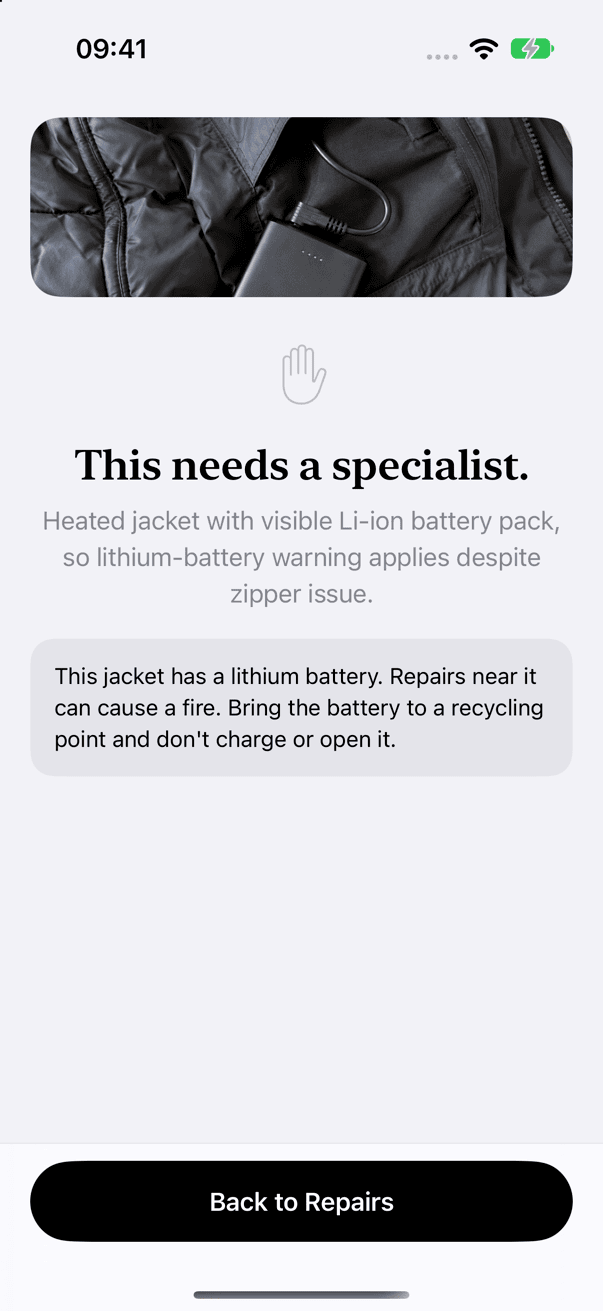
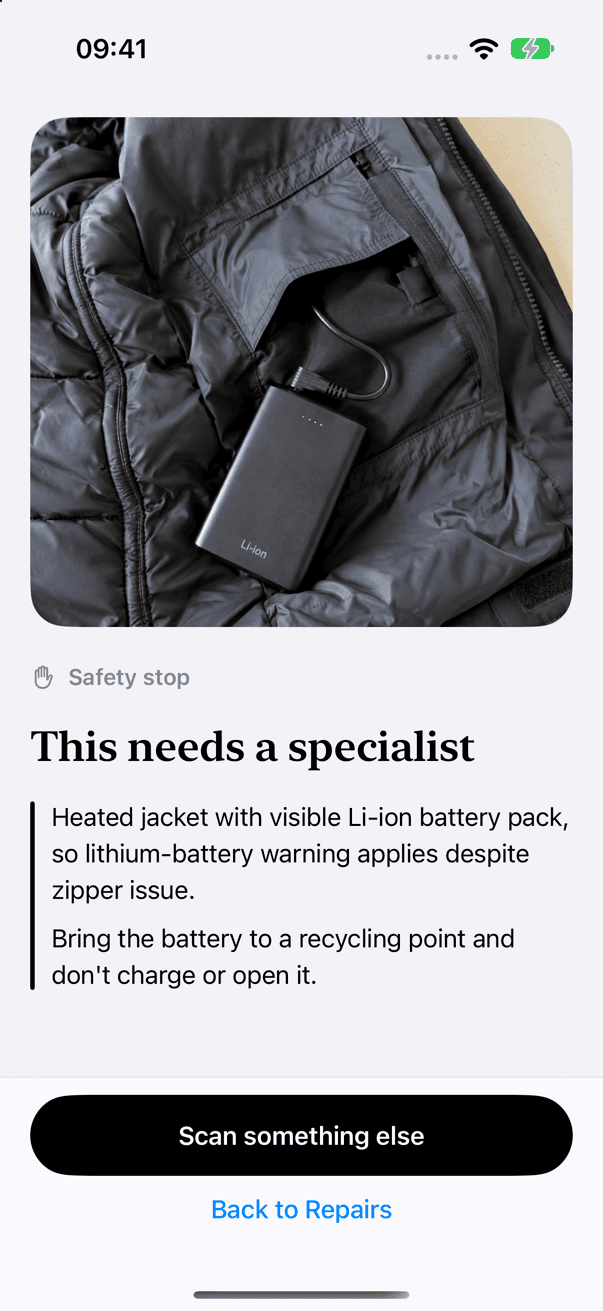
ios: Finding ohne Schlusspunkt mit integriertem Button, Block-Screen mit grossem Foto, Checkliste-Header ohne Punkt

diff --git a/ios/RepairAssistant/Views/BlockView.swift b/ios/RepairAssistant/Views/BlockView.swift
@@ -14,8 +14,8 @@ struct BlockView: View {
 
     private var title: String {
         switch variant {
-        case .battery, .professional: "This needs a specialist."
-        case .unsupported: "Not something we can mend."
+        case .battery, .professional: "This needs a specialist"
+        case .unsupported: "Not something we can mend"
         }
     }
     private var reason: String {
@@ -28,7 +28,7 @@ struct BlockView: View {
     }
     private var note: String {
         switch variant {
-        case .battery: "This \(itemNoun) has a lithium battery. Repairs near it can cause a fire. Bring the battery to a recycling point and don't charge or open it."
+        case .battery: "Bring the battery to a recycling point and don't charge or open it."
         case .professional: "Ask the maker or a specialist shop about an inspection or a replacement. Don't use it until then."
         case .unsupported: "Take a new photo of the item you want to repair, close up and in daylight."
         }
@@ -42,24 +42,35 @@ struct BlockView: View {
 
     var body: some View {
         ScrollView {
-            VStack(spacing: 20) {
+            VStack(alignment: .leading, spacing: 20) {
                 if let photo = flow.photo {
-                    Image(uiImage: photo).resizable().scaledToFill().frame(height: 120).frame(maxWidth: .infinity).clipped()
-                        .clipShape(RoundedRectangle(cornerRadius: Theme.cardRadius, style: .continuous))
-                        .accessibilityHidden(true)
+                    Group {
+                        if let r = flow.response, !r.segments.isEmpty {
+                            MarkedPhoto(image: photo, segments: r.segments, mode: .resting, showLabels: true, focus: DamageFocus.region(for: r.segments), zoomable: false)
+                        } else {
+                            Image(uiImage: photo).resizable().scaledToFill()
+                        }
+                    }
+                    .frame(height: 340).frame(maxWidth: .infinity).clipped()
+                    .clipShape(RoundedRectangle(cornerRadius: 24, style: .continuous))
+                    .accessibilityLabel(tr("Photo of your item"))
                 }
-                Image(systemName: "hand.raised").font(.system(size: 40, weight: .thin)).foregroundStyle(Theme.inkTertiary)
-                    .padding(.top, 8).accessibilityHidden(true)
-                VStack(spacing: 10) {
-                    Text(title).font(.serif(.title)).foregroundStyle(Theme.ink).multilineTextAlignment(.center)
-                        .fixedSize(horizontal: false, vertical: true)
-                    Text(reason).font(.body).foregroundStyle(Theme.inkSecondary).multilineTextAlignment(.center).lineSpacing(4)
-                        .fixedSize(horizontal: false, vertical: true)
+                HStack(spacing: 8) {
+                    Image(systemName: "hand.raised").font(.system(size: 14, weight: .semibold))
+                    Text("Safety stop").font(.subheadline.weight(.semibold))
                 }
-                Text(note).font(.subheadline).foregroundStyle(Theme.ink).lineSpacing(3)
-                    .frame(maxWidth: .infinity, alignment: .leading).padding(16)
-                    .background(Theme.fill, in: RoundedRectangle(cornerRadius: 16, style: .continuous))
+                .foregroundStyle(Theme.inkSecondary).padding(.top, 4)
+                Text(title).font(.serif(.title)).foregroundStyle(Theme.ink)
+                    .fixedSize(horizontal: false, vertical: true)
+                VStack(alignment: .leading, spacing: 12) {
+                    Text(reason).font(.body).foregroundStyle(Theme.ink).lineSpacing(4)
+                    Text(note).font(.body).foregroundStyle(Theme.ink).lineSpacing(4)
+                }
+                .fixedSize(horizontal: false, vertical: true)
+                .padding(.leading, 14)
+                .overlay(alignment: .leading) { Capsule().fill(Theme.ink).frame(width: 3) }
             }
+            .frame(maxWidth: .infinity, alignment: .leading)
             .padding(.horizontal, Theme.margin).padding(.top, 16).padding(.bottom, 24)
         }
         .scrollIndicators(.hidden)
@@ -67,8 +78,11 @@ struct BlockView: View {
         .navigationBarBackButtonHidden()
         .navigationBarHidden(true)
         .floatingBar {
-            PrimaryButton(title: "Back to Repairs") { flow.reset() }
-                .padding(.horizontal, Theme.margin).padding(.vertical, 12)
+            VStack(spacing: 0) {
+                PrimaryButton(title: "Scan something else") { flow.reset(); flow.showScan = true }
+                PrimaryButton(title: "Back to Repairs", kind: .secondary) { flow.reset() }
+            }
+            .padding(.horizontal, Theme.margin).padding(.vertical, 12)
         }
         .onAppear { Haptics.warning() }
     }

diff --git a/ios/RepairAssistant/Views/DiagnosisView.swift b/ios/RepairAssistant/Views/DiagnosisView.swift
@@ -18,14 +18,18 @@ struct DiagnosisView: View {
                 Theme.surface.ignoresSafeArea()
                 VStack(spacing: 0) {
                     hero(r, geo: geo).frame(maxHeight: .infinity)
-                    sheet(r, maxHeight: geo.size.height * 0.5)
+                    sheet(r, maxHeight: geo.size.height * 0.58)
                         .padding(.top, -Theme.heroRadius)
                         .offset(y: sheetShown ? 0 : 24).opacity(sheetShown ? 1 : 0)
                 }
             }
             .ignoresSafeArea(edges: .top)
         }
-        .floatingBar { ctaBar(r) }
+        .safeAreaInset(edge: .bottom, spacing: 0) {
+            if r?.diagnosis.needsMoreInfo ?? false {
+                ctaBar(r).background(.bar).overlay(alignment: .top) { Rectangle().fill(Theme.hairline).frame(height: 0.5) }
+            }
+        }
         .navigationBarBackButtonHidden()
         .navigationBarHidden(true)
         .sheet(isPresented: $flow.showFollowUp) { FollowUpSheet() }
@@ -128,7 +132,7 @@ struct DiagnosisView: View {
                     } else {
                         let t = CopyPolish.headlineAndBody(r.diagnosis.summary, english: Lang.shared.isEnglish)
                         Text("What we found").overline()
-                        Text(t.headline).font(.serif(.title)).foregroundStyle(Theme.ink)
+                        Text(t.headline.trimmingCharacters(in: CharacterSet(charactersIn: "."))).font(.serif(.title)).foregroundStyle(Theme.ink)
                             .fixedSize(horizontal: false, vertical: true)
                         if !t.body.isEmpty {
                             Text(t.body).font(.body).foregroundStyle(Theme.ink).lineSpacing(4).fixedSize(horizontal: false, vertical: true)
@@ -142,6 +146,7 @@ struct DiagnosisView: View {
                         if !flow.changedItemIds.isEmpty { changedLine(r) }
                         detailsList(r)
                         if flow.labelBusy { labelBusyRow } else if flow.labelOfferAvailable { labelOfferRow }
+                        optionsButton
                     }
                 }
             }
@@ -226,6 +231,21 @@ struct DiagnosisView: View {
     }
 
     // MARK: CTA
+
+    /// The sheet's own button: an accent bar with an arrow, part of the sheet rather than a floating pill.
+    private var optionsButton: some View {
+        Button { flow.go(.decision) } label: {
+            HStack {
+                Text("See my options").font(.headline)
+                Spacer()
+                Image(systemName: "arrow.right").font(.headline)
+            }
+            .foregroundStyle(.white).padding(.horizontal, 20).frame(height: 56)
+            .background(Theme.thread, in: RoundedRectangle(cornerRadius: 16, style: .continuous))
+        }
+        .buttonStyle(PressScaleStyle())
+        .padding(.top, 4)
+    }
 
     @ViewBuilder private func ctaBar(_ r: AnalyzeResponse?) -> some View {
         if let r {

diff --git a/ios/RepairAssistant/DesignSystem/MarkedPhoto.swift b/ios/RepairAssistant/DesignSystem/MarkedPhoto.swift
@@ -356,7 +356,9 @@ struct MarkLabels: View {
                 let beside = p.dot.y >= r.minY && p.dot.y <= r.maxY
                 let tail = beside ? CGPoint(x: p.dot.x < r.midX ? r.minX - 4 : r.maxX + 4, y: r.midY)
                                   : CGPoint(x: min(max(p.dot.x, r.minX + 8), r.maxX - 8), y: p.dot.y < r.midY ? r.minY : r.maxY)
-                let dots = p.item.dots.isEmpty ? [p.dot] : p.item.dots
+                let all = p.item.dots.isEmpty ? [p.dot] : p.item.dots
+                // leaders only to dots inside the visible photo area, never a line running off-screen
+                let dots = visible.map { v in all.filter { v.insetBy(dx: 6, dy: 6).contains($0) } }.flatMap { $0.isEmpty ? nil : $0 } ?? [p.dot]
                 Path { path in for d in dots { path.move(to: d); path.addLine(to: tail) } }
                     .stroke(.white.opacity(0.8), style: StrokeStyle(lineWidth: 0.75, lineCap: .round))
                     .shadow(color: .black.opacity(0.35), radius: 1.5)

diff --git a/ios/RepairAssistant/Views/ShoppingListView.swift b/ios/RepairAssistant/Views/ShoppingListView.swift
@@ -56,7 +56,7 @@ struct ShoppingListView: View {
 
     private func header(_ items: [ShoppingItem], ready: Int) -> some View {
         VStack(alignment: .leading, spacing: 10) {
-            Text(ready == items.count ? "All set." : "Gather these first.")
+            Text(ready == items.count ? "All set" : "Gather these first")
                 .font(.serif(.largeTitle)).foregroundStyle(Theme.ink).fixedSize(horizontal: false, vertical: true)
             Text("\(ready) of \(items.count) ready").font(.subheadline).foregroundStyle(Theme.inkSecondary)
                 .monospacedDigit().contentTransition(.numericText())
